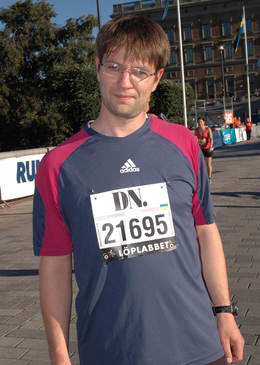
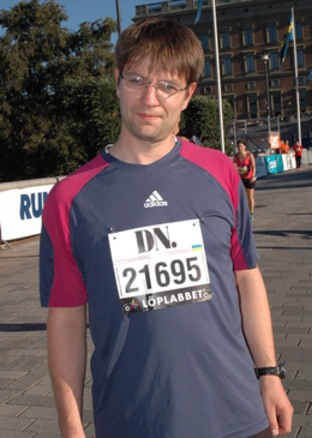
Updated people page
- Resized Oleg's jpg
- Added content for Fryer

diff --git a/css/master_interior.css b/css/master_interior.css
@@ -8,9 +8,9 @@
 {
 	background-color: #999999;
 	background-color: rgba(0,0,0,0.4);
+	line-height: 58px;
 	color: #FFFFFF;
 	font-size: 48px;
-	line-height: 58px;
 	font-family: open-sans-condensed, sans-serif;
 	font-weight: 700;
 	position: relative;
@@ -28,10 +28,10 @@
 	border-style: none;
 	border-color: transparent;
 	background-color: transparent;
+	line-height: 22px;
 	color: #10508C;
 	text-align: center;
 	font-size: 18px;
-	line-height: 22px;
 	font-family: open-sans-condensed, sans-serif;
 	font-weight: 700;
 	position: relative;
@@ -54,10 +54,10 @@
 	border-style: none;
 	border-color: transparent;
 	background-color: transparent;
+	line-height: 22px;
 	color: #10508C;
 	text-align: center;
 	font-size: 18px;
-	line-height: 22px;
 	font-family: open-sans-condensed, sans-serif;
 	font-weight: 700;
 	position: relative;
@@ -80,10 +80,10 @@
 	border-style: none;
 	border-color: transparent;
 	background-color: transparent;
+	line-height: 22px;
 	color: #10508C;
 	text-align: center;
 	font-size: 18px;
-	line-height: 22px;
 	font-family: open-sans-condensed, sans-serif;
 	font-weight: 700;
 	position: relative;
@@ -106,10 +106,10 @@
 	border-style: none;
 	border-color: transparent;
 	background-color: transparent;
+	line-height: 22px;
 	color: #10508C;
 	text-align: center;
 	font-size: 18px;
-	line-height: 22px;
 	font-family: open-sans-condensed, sans-serif;
 	font-weight: 700;
 	position: relative;
@@ -132,10 +132,10 @@
 	border-style: none;
 	border-color: transparent;
 	background-color: transparent;
+	line-height: 22px;
 	color: #10508C;
 	text-align: center;
 	font-size: 18px;
-	line-height: 22px;
 	font-family: open-sans-condensed, sans-serif;
 	font-weight: 700;
 	position: relative;
@@ -158,10 +158,10 @@
 	border-style: none;
 	border-color: transparent;
 	background-color: transparent;
+	line-height: 22px;
 	color: #10508C;
 	text-align: center;
 	font-size: 18px;
-	line-height: 22px;
 	font-family: open-sans-condensed, sans-serif;
 	font-weight: 700;
 	position: relative;
@@ -248,10 +248,10 @@
 	border-style: none;
 	border-color: transparent;
 	background-color: transparent;
+	line-height: 22px;
 	color: #FFFFFF;
 	text-align: center;
 	font-size: 18px;
-	line-height: 22px;
 	font-family: open-sans-condensed, sans-serif;
 	font-weight: 700;
 	position: relative;
@@ -274,10 +274,10 @@
 	border-style: none;
 	border-color: transparent;
 	background-color: transparent;
+	line-height: 22px;
 	color: #FFFFFF;
 	text-align: center;
 	font-size: 18px;
-	line-height: 22px;
 	font-family: open-sans-condensed, sans-serif;
 	font-weight: 700;
 	position: relative;
@@ -300,10 +300,10 @@
 	border-style: none;
 	border-color: transparent;
 	background-color: transparent;
+	line-height: 22px;
 	color: #FFFFFF;
 	text-align: center;
 	font-size: 18px;
-	line-height: 22px;
 	font-family: open-sans-condensed, sans-serif;
 	font-weight: 700;
 	position: relative;
@@ -326,10 +326,10 @@
 	border-style: none;
 	border-color: transparent;
 	background-color: transparent;
+	line-height: 22px;
 	color: #FFFFFF;
 	text-align: center;
 	font-size: 18px;
-	line-height: 22px;
 	font-family: open-sans-condensed, sans-serif;
 	font-weight: 700;
 	position: relative;
@@ -352,10 +352,10 @@
 	border-style: none;
 	border-color: transparent;
 	background-color: transparent;
+	line-height: 22px;
 	color: #FFFFFF;
 	text-align: center;
 	font-size: 18px;
-	line-height: 22px;
 	font-family: open-sans-condensed, sans-serif;
 	font-weight: 700;
 	position: relative;
@@ -378,10 +378,10 @@
 	border-style: none;
 	border-color: transparent;
 	background-color: transparent;
+	line-height: 22px;
 	color: #FFFFFF;
 	text-align: center;
 	font-size: 18px;
-	line-height: 22px;
 	font-family: open-sans-condensed, sans-serif;
 	font-weight: 700;
 	position: relative;

diff --git a/people.html b/people.html
@@ -11,10 +11,10 @@
   <title>CDSS: People</title>
   <!-- CSS -->
   <link rel="stylesheet" type="text/css" href="css/site_global.css?4249042467"/>
-  <link rel="stylesheet" type="text/css" href="css/master_interior.css?405749609"/>
-  <link rel="stylesheet" type="text/css" href="css/people.css?4282858142" id="pagesheet"/>
+  <link rel="stylesheet" type="text/css" href="css/master_interior.css?4149486832"/>
+  <link rel="stylesheet" type="text/css" href="css/people.css?4211518397" id="pagesheet"/>
   <!--[if lt IE 9]>
-  <link rel="stylesheet" type="text/css" href="css/iefonts_people.css?3871519047"/>
+  <link rel="stylesheet" type="text/css" href="css/iefonts_people.css?3955635437"/>
   <![endif]-->
   <!-- Other scripts -->
   <script type="text/javascript">
@@ -23,7 +23,7 @@ var __adobewebfontsappname__ = "muse";
 </script>
   <!-- JS includes -->
   <script type="text/javascript">
-   document.write('\x3Cscript src="' + (document.location.protocol == 'https:' ? 'https:' : 'http:') + '//webfonts.creativecloud.com/open-sans-condensed:n7,n3:default;open-sans:n7,n4,i6:default.js" type="text/javascript">\x3C/script>');
+   document.write('\x3Cscript src="' + (document.location.protocol == 'https:' ? 'https:' : 'http:') + '//webfonts.creativecloud.com/open-sans:n7,n4,i6:default;open-sans-condensed:n7,n3:default.js" type="text/javascript">\x3C/script>');
 </script>
   <!--[if lt IE 9]>
   <script src="scripts/html5shiv.js?4241844378" type="text/javascript"></script>
@@ -37,7 +37,7 @@ var __adobewebfontsappname__ = "muse";
      <div class="museBGSize" id="u520"><!-- group -->
       <div class="clearfix" id="u520_align_to_page">
        <div class="rgba-background clearfix grpelem" id="u521-4"><!-- content -->
-        <h1>ISTI/ASC Co-Design Summer School</h1>
+        <h1>IS&amp;T/ASC Co-Design Summer School</h1>
        </div>
       </div>
      </div>
@@ -133,11 +133,13 @@ var __adobewebfontsappname__ = "muse";
        <img class="position_content" id="u439_img" src="images/fryer.jpg" alt="" width="292" height="402"/>
       </div>
      </div>
-     <div class="clearfix grpelem" id="u441-9"><!-- content -->
+     <div class="clearfix grpelem" id="u441-12"><!-- content -->
       <p>Chris Fryer</p>
       <p>CCS-2 Computational Physics and Methods</p>
       <p>&nbsp;</p>
-      <p><span id="u441-6">Chris...</span></p>
+      <p>Laboratory Fellow &amp; E. O. Lawrence Award Laureate</p>
+      <p>&nbsp;</p>
+      <p><span id="u441-9">Chris Fryer is a computational astrophysicist working on a wide variety of astronomy problems from the formation of the moon to the progenitors and mechanisms behind the most powerful explosions in the universe:&nbsp; gamma-ray bursts and supernovae.&nbsp; Although he has spent time building new high-performance computer systems, his emphasis has been on developing the physics codes that use these systems to better understand these astrophysical phenomena.&nbsp; In this effort, he has worked with a variety of codes and techniques to find the best methods to solve these multi-physics problems.</span></p>
      </div>
     </div>
     <div class="clearfix colelem" id="pu893"><!-- group -->

diff --git a/css/people.css b/css/people.css
@@ -1,7 +1,7 @@
 .version.people /* version checker */
 {
-	color: #0000FF;
-	background-color: #473A9E;
+	color: #0000FB;
+	background-color: #06ABBD;
 }
 
 .html
@@ -222,8 +222,8 @@
 	width: 312px;
 	min-height: 32px;
 	background-color: transparent;
-	font-size: 24px;
 	line-height: 29px;
+	font-size: 24px;
 	font-family: open-sans, sans-serif;
 	font-weight: 700;
 	position: relative;
@@ -306,8 +306,8 @@
 	width: 312px;
 	min-height: 32px;
 	background-color: transparent;
-	font-size: 24px;
 	line-height: 29px;
+	font-size: 24px;
 	font-family: open-sans, sans-serif;
 	font-weight: 700;
 	margin-left: 64px;
@@ -329,7 +329,7 @@
 	margin-bottom: -37px;
 }
 
-#u441-9
+#u441-12
 {
 	z-index: 166;
 	width: 312px;
@@ -351,7 +351,7 @@
 
 #u893
 {
-	z-index: 204;
+	z-index: 207;
 	width: 292px;
 	background-color: transparent;
 	position: relative;
@@ -366,7 +366,7 @@
 
 #u895-12
 {
-	z-index: 206;
+	z-index: 209;
 	width: 312px;
 	min-height: 365px;
 	background-color: transparent;
@@ -384,7 +384,7 @@
 
 #u442
 {
-	z-index: 175;
+	z-index: 178;
 	width: 292px;
 	background-color: transparent;
 	position: relative;
@@ -399,7 +399,7 @@
 
 #u444-10
 {
-	z-index: 177;
+	z-index: 180;
 	width: 312px;
 	min-height: 365px;
 	background-color: transparent;
@@ -417,7 +417,7 @@
 
 #u841
 {
-	z-index: 187;
+	z-index: 190;
 	width: 292px;
 	background-color: transparent;
 	position: relative;
@@ -426,7 +426,7 @@
 
 #u843-15
 {
-	z-index: 189;
+	z-index: 192;
 	width: 312px;
 	min-height: 365px;
 	background-color: transparent;
@@ -444,7 +444,7 @@
 
 #u909
 {
-	z-index: 218;
+	z-index: 221;
 	width: 292px;
 	background-color: transparent;
 	position: relative;
@@ -465,7 +465,7 @@
 
 #u911-14
 {
-	z-index: 220;
+	z-index: 223;
 	width: 312px;
 	min-height: 365px;
 	background-color: transparent;
@@ -482,7 +482,7 @@
 	font-weight: 700;
 }
 
-#u429-3,#u429-5,#u429-6,#u429-8,#u429-9,#u429-11,#u432-3,#u432-5,#u432-6,#u432-8,#u441-6,#u895-3,#u895-5,#u895-6,#u895-8,#u895-10,#u444-3,#u444-5,#u444-6,#u444-8,#u843-3,#u843-5,#u843-7,#u843-8,#u843-10,#u843-11,#u911-3,#u911-5,#u911-7,#u911-8,#u911-10,#u911-11
+#u429-3,#u429-5,#u429-6,#u429-8,#u429-9,#u429-11,#u432-3,#u432-5,#u432-6,#u432-8,#u441-9,#u895-3,#u895-5,#u895-6,#u895-8,#u895-10,#u444-3,#u444-5,#u444-6,#u444-8,#u843-3,#u843-5,#u843-7,#u843-8,#u843-10,#u843-11,#u911-3,#u911-5,#u911-7,#u911-8,#u911-10,#u911-11
 {
 	font-family: open-sans, sans-serif;
 	font-weight: 400;

diff --git a/css/iefonts_people.css b/css/iefonts_people.css
@@ -68,7 +68,7 @@
 	font-family: open-sans-n7, sans-serif;
 }
 
-#u429-3,#u429-5,#u429-6,#u429-8,#u429-9,#u429-11,#u432-3,#u432-5,#u432-6,#u432-8,#u441-9,#u441-6,#u895-3,#u895-5,#u895-6,#u895-8,#u895-10,#u444-3,#u444-5,#u444-6,#u444-8,#u843-3,#u843-5,#u843-7,#u843-8,#u843-10,#u843-11,#u911-3,#u911-5,#u911-7,#u911-8,#u911-10,#u911-11
+#u429-3,#u429-5,#u429-6,#u429-8,#u429-9,#u429-11,#u432-3,#u432-5,#u432-6,#u432-8,#u441-12,#u441-9,#u895-3,#u895-5,#u895-6,#u895-8,#u895-10,#u444-3,#u444-5,#u444-6,#u444-8,#u843-3,#u843-5,#u843-7,#u843-8,#u843-10,#u843-11,#u911-3,#u911-5,#u911-7,#u911-8,#u911-10,#u911-11
 {
 	font-family: open-sans-n4, sans-serif;
 }
